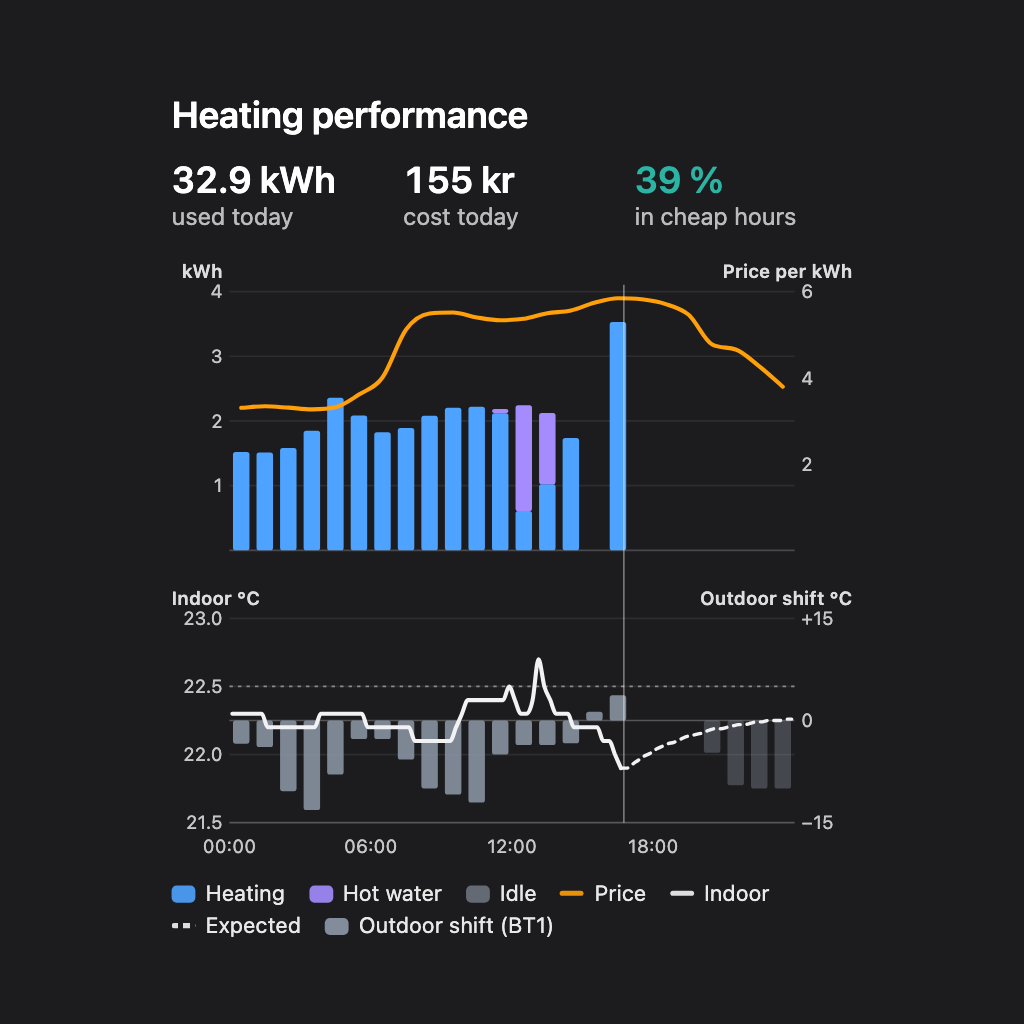
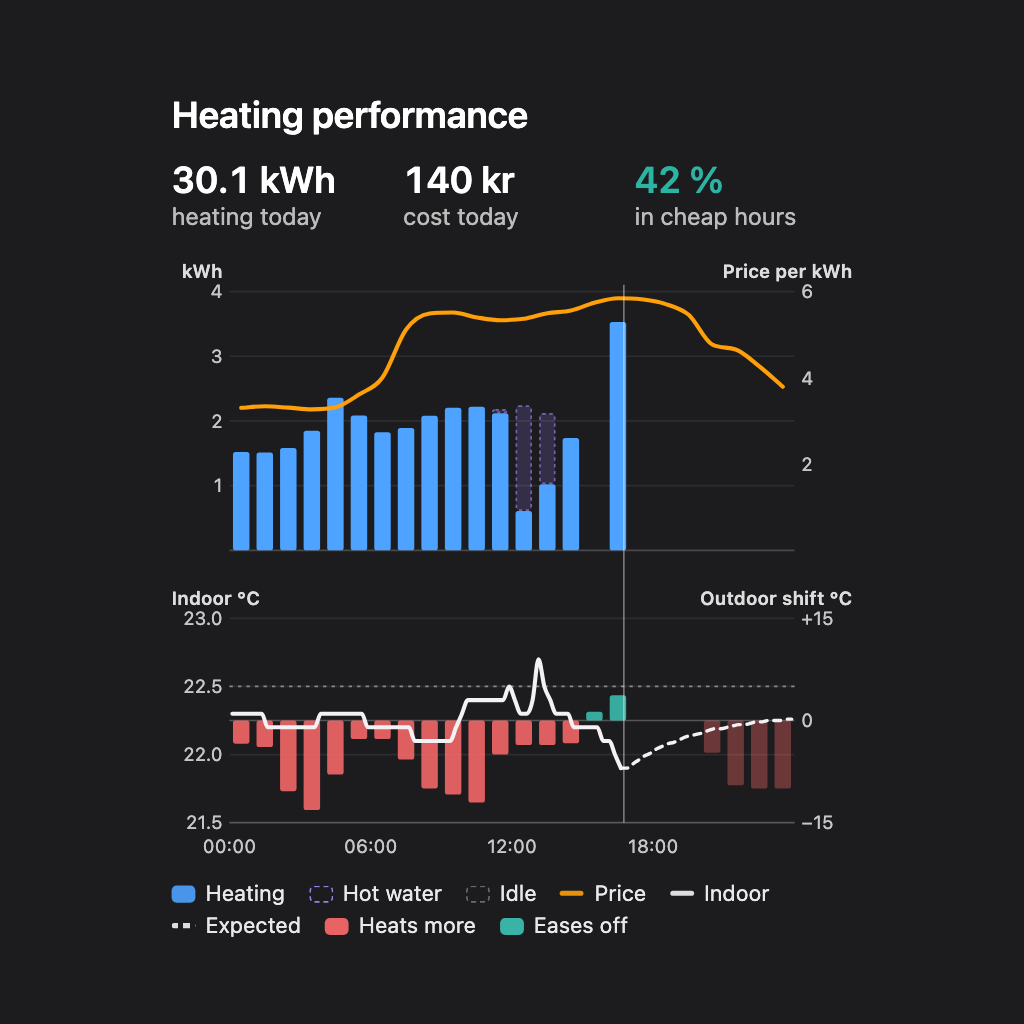
Heating performance counts heating alone; shift bars in red and teal
The card's three numbers now count heating only ("heating today"). Hot water
and idle are still drawn, pale and dashed, so the bar is the heat pump's whole
use. Overview's Today keeps the whole pump, as Homey Energy has it. A pump
without a Heating device says so on this card.

The outdoor shift bars are red where Autopilot heated more and teal where it
eased off, Day plan's colours and names.

diff --git a/lib/device.ts b/lib/device.ts
@@ -3129,6 +3129,9 @@ export abstract class NibePumpDevice extends Device implements PumpSubscriber {
         // Main only where it carries an idle meter (a model with no power source has none).
         const byRole = new Map(siblings.filter((d) => d.role !== 'main' || d.hasCapability(METER_CAPABILITY)).map((d) => [d.role, d]));
         if (!byRole.has('heating') && !byRole.has('hotwater')) return {title, empty: t('no_functions')};
+        // The card counts heating alone, so a pump without a Heating device has nothing to show there.
+        // Overview (withHeating false) still reads the whole pump's totals.
+        if (withHeating && !byRole.has('heating')) return {title, empty: t('no_heating')};
         const reads = ENERGY_ROLES.filter((role) => byRole.has(role)).map((role) => [role, byRole.get(role).energyToday?.()] as const);
         const known = reads.filter(([, r]) => r);
         // A function not read yet (they read minutes apart after a start) would look like one that
@@ -3149,7 +3152,7 @@ export abstract class NibePumpDevice extends Device implements PumpSubscriber {
             {slots: Object.fromEntries(known.map(([role, r]) => [role, r!.slots])), prices: slotPrices});
         const currency = known.find(([, r]) => r!.currency)?.[1]!.currency ?? '';
         const language = this.homey.i18n.getLanguage();
-        const kwh = numberFormat(language, {maximumFractionDigits: 1}).format(chart.kwh);
+        const kwh = numberFormat(language, {maximumFractionDigits: 1}).format(chart.heatingUse.kwh);
         // Now in hours from midnight, at the start of its 15-minute slot, where the other day charts
         // draw it: the line falls inside the hour's bar, which holds the use so far.
         const hour = Math.max(0, hours.findIndex((at) => at > Date.now()) - 1);
@@ -3158,14 +3161,17 @@ export abstract class NibePumpDevice extends Device implements PumpSubscriber {
         const heating = withHeating ? byRole.get('heating')?.heatingGraphToday?.() as HeatingGraph | undefined : undefined;
         return {title, heading: t('heading'), chart, now,
             numbers: [
-                {value: `${kwh} kWh`, label: t('used')},
+                // Heating alone: hot water and idle are drawn pale but not counted (owner's choice, 2026-11-26).
+                {value: `${kwh} kWh`, label: t('used_heating')},
                 // Whole kronor, euro to 10 cents (owner's choice, 2026-11-26): a day's cost, not a meter reading.
-                {value: dayCostText(chart.cost, language, currency), label: t('cost')},
-                ...chart.cheapShare === undefined ? [] : [{value: `${Math.round(chart.cheapShare * 100)} %`, label: t('cheap'), good: true}],
+                {value: dayCostText(chart.heatingUse.cost, language, currency), label: t('cost')},
+                ...chart.heatingUse.cheapShare === undefined ? [] : [{value: `${Math.round(chart.heatingUse.cheapShare * 100)} %`, label: t('cheap'), good: true}],
             ],
             ticks: [0, 6, 12, 18].map((k) => ({at: k, label: this.clock(hours[0] + k * HOUR_MS)})),
             legend: {heating: t('heating'), hotwater: t('hotwater'), main: t('idle'), price: t('price'),
-                offset: w('offset'), indoor: w('indoor'), expected: w('expected')},
+                // The shift's two colours, named as Day plan names them.
+                more: this.homey.__('autopilot.day_plan.more'), less: this.homey.__('autopilot.day_plan.less'),
+                indoor: w('indoor'), expected: w('expected')},
             axes: {kwh: 'kWh', price: t('price_axis'), offset: w('axis_offset'), indoor: w('axis_indoor')},
             ...heating ? {heating} : {}};
     }
@@ -3263,10 +3269,10 @@ export abstract class NibePumpDevice extends Device implements PumpSubscriber {
             return Number.isFinite(v) ? a + v : a;
         }, 0);
         if (!offline) facts.push({label: t('power_now'), value: `${one(watts / 1000)} kW`});
-        // Today as Energy today has it, so the two cards agree.
-        const used = energy.numbers?.[0]?.value, spent = energy.numbers?.[1]?.value;
-        if (used && spent) facts.push({label: t('today'), value: `${used} · ${spent}`});
+        // Today for the whole heat pump, as Homey Energy has it (Heating performance counts heating alone).
         const currency = String(siblings.map((d) => d.energyToday?.()?.currency).find(Boolean) ?? '');
+        if (energy.chart) facts.push({label: t('today'),
+            value: `${numberFormat(language, {maximumFractionDigits: 1}).format(energy.chart.kwh)} kWh · ${dayCostText(energy.chart.cost, language, currency)}`});
         const ahead = this.restOfToday(energy, siblings);
         if (ahead) facts.push({label: t('by_midnight'), value: t('by_midnight_value', {kwh: one(ahead.kwh), cost: dayCostText(ahead.cost, language, currency)})});
         const month = this.monthFigures(byRole, language);

diff --git a/widgets/energy/public/index.html b/widgets/energy/public/index.html
@@ -31,12 +31,12 @@
       .en-num span { opacity: 0.7; }
       /* Heating in blue, hot water in violet (the hot water cards' use colour), the price in orange (the
          owner's choice, 2026-11-26, so it stands out from the bars), and the cheap share in the savings
-         cards' cheap colour. Indoor is near the text colour and the outdoor shift grey, so neither competes
-         with the electricity and the price. */
-      :root { --en-heat: #2d6bd6; --en-water: #7652d6; --en-idle: #a7adb6; --en-price: #d46a00; --en-cheap: #0f8374; --en-shift: #7a8594; --en-indoor: #1d1d1f; }
-      :root[data-theme="dark"] { --en-heat: #4da3ff; --en-water: #a48cff; --en-idle: #6c737d; --en-price: #ff9f0a; --en-cheap: #2bb3a3; --en-shift: #8e99a8; --en-indoor: #f2f2f5; }
+         cards' cheap colour. Indoor is near the text colour; the outdoor shift is red where it heats more
+         and teal where it eases off, Day plan's colours. */
+      :root { --en-heat: #2d6bd6; --en-water: #7652d6; --en-idle: #a7adb6; --en-price: #d46a00; --en-cheap: #0f8374; --en-more: #c43a3a; --en-less: #13857a; --en-indoor: #1d1d1f; }
+      :root[data-theme="dark"] { --en-heat: #4da3ff; --en-water: #a48cff; --en-idle: #6c737d; --en-price: #ff9f0a; --en-cheap: #2bb3a3; --en-more: #ff6b6b; --en-less: #3cc4b4; --en-indoor: #f2f2f5; }
       @media (prefers-color-scheme: dark) {
-        :root:not([data-theme="light"]) { --en-heat: #4da3ff; --en-water: #a48cff; --en-idle: #6c737d; --en-price: #ff9f0a; --en-cheap: #2bb3a3; --en-shift: #8e99a8; --en-indoor: #f2f2f5; }
+        :root:not([data-theme="light"]) { --en-heat: #4da3ff; --en-water: #a48cff; --en-idle: #6c737d; --en-price: #ff9f0a; --en-cheap: #2bb3a3; --en-more: #ff6b6b; --en-less: #3cc4b4; --en-indoor: #f2f2f5; }
       }
     </style>
   </head>
@@ -175,7 +175,11 @@
             var v = h.use[r[0]];
             if (!(v > 0)) return;
             var top = yk(v + (B - y0) * c.kwhAxis.max / PH);
-            svg.appendChild(svgEl('rect', {x: x(k) - bw / 2, y: top, width: bw, height: Math.max(1, y0 - top), rx: 1.5, fill: r[1]}));
+            // Heating solid; hot water and idle pale and dashed: drawn, so the bar is the heat pump's
+            // whole use, but not what this card counts.
+            svg.appendChild(svgEl('rect', r[0] === 'heating' ? {x: x(k) - bw / 2, y: top, width: bw, height: Math.max(1, y0 - top), rx: 1.5, fill: r[1]}
+              : {x: x(k) - bw / 2 + 0.5, y: top + 0.5, width: bw - 1, height: Math.max(1, y0 - top - 1), rx: 1.5,
+                fill: r[1], 'fill-opacity': 0.18, stroke: r[1], 'stroke-opacity': 0.6, 'stroke-dasharray': '2 2'}));
             y0 = top;
           });
         });
@@ -219,7 +223,7 @@
             if (Math.abs(m) < 0.05) continue;
             var y0 = yo(0), y1 = yo(m), bw = Math.max(2, step * 0.7);
             svg.appendChild(svgEl('rect', {x: x(h) - bw / 2, y: Math.min(y0, y1), width: bw, height: Math.max(1, Math.abs(y1 - y0)), rx: 1.5,
-              fill: 'var(--en-shift)', 'fill-opacity': h * 4 < st.planFrom ? 0.85 : 0.35}));
+              fill: m < 0 ? 'var(--en-more)' : 'var(--en-less)', 'fill-opacity': h * 4 < st.planFrom ? 0.85 : 0.35}));
           }
         }
         if (a) {
@@ -298,12 +302,13 @@
         var lg = data.legend, st = data.heating || {};
         root.appendChild(legend([
           {text: lg.heating, style: 'background: var(--en-heat);'},
-          {text: lg.hotwater, style: 'background: var(--en-water);'},
-          {text: lg.main, style: 'background: var(--en-idle);'},
+          {text: lg.hotwater, style: 'background: transparent; border: 1px dashed var(--en-water);'},
+          {text: lg.main, style: 'background: transparent; border: 1px dashed var(--en-idle);'},
           {text: lg.price, line: true, style: 'background: var(--en-price);'},
           {text: st.indoor ? lg.indoor : '', line: true, style: 'background: var(--en-indoor);'},
           {text: st.expected ? lg.expected : '', line: true, style: 'background: repeating-linear-gradient(90deg, var(--en-indoor) 0 4px, transparent 4px 7px);'},
-          {text: st.offset ? lg.offset : '', style: 'background: var(--en-shift);'}]));
+          {text: st.offset ? lg.more : '', style: 'background: var(--en-more);'},
+          {text: st.offset ? lg.less : '', style: 'background: var(--en-less);'}]));
       }
 
       function onHomeyReady(Homey) {

diff --git a/lib/autopilot/energy.ts b/lib/autopilot/energy.ts
@@ -24,6 +24,9 @@ export interface EnergyChart {
     cost: number;
     /** Share of the kWh used in the cheapest third of the day's hours, 0–1; undefined with no use. */
     cheapShare?: number;
+    /** The same three for heating alone: what Heating performance counts. Hot water and idle are
+     *  drawn but not counted there (owner's choice, 2026-11-26). The totals above stay, for Overview. */
+    heatingUse: {kwh: number; cost: number; cheapShare?: number};
     kwhAxis: {max: number; gridlines: number[]};
     priceAxis: {max: number; gridlines: number[]; decimals: number};
 }
@@ -35,7 +38,7 @@ export function energyChart(hours: number[], use: Partial<Record<EnergyRole, Map
     // The day's prices in thirds, as the savings widgets rank them.
     const ranked = hours.filter((at) => prices.has(at)).sort((a, b) => prices.get(a)! - prices.get(b)!);
     const cheap = new Set(ranked.slice(0, Math.ceil(ranked.length / 3)));
-    let kwh = 0, cost = 0, inCheap = 0;
+    let kwh = 0, cost = 0, inCheap = 0, heatKwh = 0, heatCost = 0, heatCheap = 0;
     const out = hours.map((at): EnergyHour => {
         const hour: EnergyHour = {use: {}, ...prices.has(at) ? {price: prices.get(at)} : {}};
         for (const role of ENERGY_ROLES) {
@@ -45,14 +48,16 @@ export function energyChart(hours: number[], use: Partial<Record<EnergyRole, Map
             kwh += v;
             // Each 15-minute slot at its own price, as Homey Energy counts it; the rest of the
             // hour (read from Insights) at the hour's mean.
-            let rest = v;
+            let rest = v, paid = 0;
             const slots = bySlot.slots?.[role];
             if (slots && bySlot.prices) for (let s = at; s < at + 3_600_000; s += 900_000) {
                 const kwh = slots.get(s), price = bySlot.prices.get(s);
-                if (kwh !== undefined && price !== undefined) { cost += kwh * price; rest -= kwh; }
+                if (kwh !== undefined && price !== undefined) { paid += kwh * price; rest -= kwh; }
             }
-            if (hour.price !== undefined) cost += Math.max(0, rest) * hour.price;
+            if (hour.price !== undefined) paid += Math.max(0, rest) * hour.price;
+            cost += paid;
             if (cheap.has(at)) inCheap += v;
+            if (role === 'heating') { heatKwh += v; heatCost += paid; if (cheap.has(at)) heatCheap += v; }
         }
         return hour;
     });
@@ -60,6 +65,7 @@ export function energyChart(hours: number[], use: Partial<Record<EnergyRole, Map
     const kwhAxis = niceAxis(0, Math.max(1, peak), {steps: [0.5, 1, 2, 5]});
     const priceAxis = niceAxis(0, Math.max(0.5, ...[...prices.values()]), {maxIntervals: 3});
     return {hours: out, kwh: round(kwh, 1), cost: round(cost, 2), ...kwh > 0 ? {cheapShare: round(inCheap / kwh, 3)} : {},
+        heatingUse: {kwh: round(heatKwh, 1), cost: round(heatCost, 2), ...heatKwh > 0 ? {cheapShare: round(heatCheap / heatKwh, 3)} : {}},
         kwhAxis: {max: kwhAxis.hi, gridlines: kwhAxis.ticks}, priceAxis: {max: priceAxis.hi, gridlines: priceAxis.ticks, decimals: priceAxis.decimals}};
 }
 
@@ -193,7 +199,7 @@ export interface EnergyWidgetData {
     /** Now in hours from midnight, at its 15-minute slot (14.75 is 14:45), the hours to label, and the legend. */
     now?: number;
     ticks?: {at: number; label: string}[];
-    legend?: {heating: string; hotwater: string; main: string; price: string; offset?: string; indoor?: string; expected?: string};
+    legend?: {heating: string; hotwater: string; main: string; price: string; more?: string; less?: string; indoor?: string; expected?: string};
     axes?: {kwh: string; price: string; offset?: string; indoor?: string};
     /** The heating graph's series; absent without a Heating device. */
     heating?: HeatingGraph;

diff --git a/test/autopilot-energy.test.ts b/test/autopilot-energy.test.ts
@@ -106,3 +106,14 @@ test('heating graph: the shift only when it moved, indoor only up to now', () =>
     // No plan: nothing expected.
     assert.equal(off.expected, undefined);
 });
+
+test('heating alone: hot water and idle drawn but not counted', () => {
+    const c = energyChart(hours, {heating, hotwater, main: new Map([[0, 0.1]])}, prices);
+    assert.equal(c.kwh, 7.1, 'the total keeps everything, for Overview');
+    assert.equal(c.heatingUse.kwh, 3);
+    // Heating 1, 1, 0.5, 0.5 kWh at 1, 2, 3, 4 kr.
+    assert.equal(c.heatingUse.cost, 6.5);
+    // Cheapest third of six hours: the first two, which hold 2 of heating's 3 kWh.
+    assert.equal(c.heatingUse.cheapShare, 0.667);
+    assert.equal(energyChart(hours, {hotwater}, prices).heatingUse.cheapShare, undefined);
+});

diff --git a/docs/autopilot-plan.md b/docs/autopilot-plan.md
@@ -2245,7 +2245,8 @@ their own rather than part of M3.
 **Built (dev branch):** Autopilot (`widgets/autopilot`, §10.0), Heating savings and Hot water
 savings (§11), Day plan (below), Getting started (§7.7), Plan vs actual (`widgets/cost_check`),
 Heating performance (`widgets/energy`, Energy today until 2026-11: today's electricity against the
-price, then the outdoor shift (BT1) and indoor), Heat pump overview (`widgets/overview`), and hot water's two,
+price, then the outdoor shift (BT1) and indoor; its three numbers count heating alone, hot water and
+idle drawn pale, while Overview's Today counts the whole heat pump, as Homey Energy does), Heat pump overview (`widgets/overview`), and hot water's two,
 Hot water and Hot water use (hot water doc). Autopilot's candidates as first planned:
 
 - **Planned heating:** the next 24 h, with planned indoor against comfort, the pre-heat and coast
